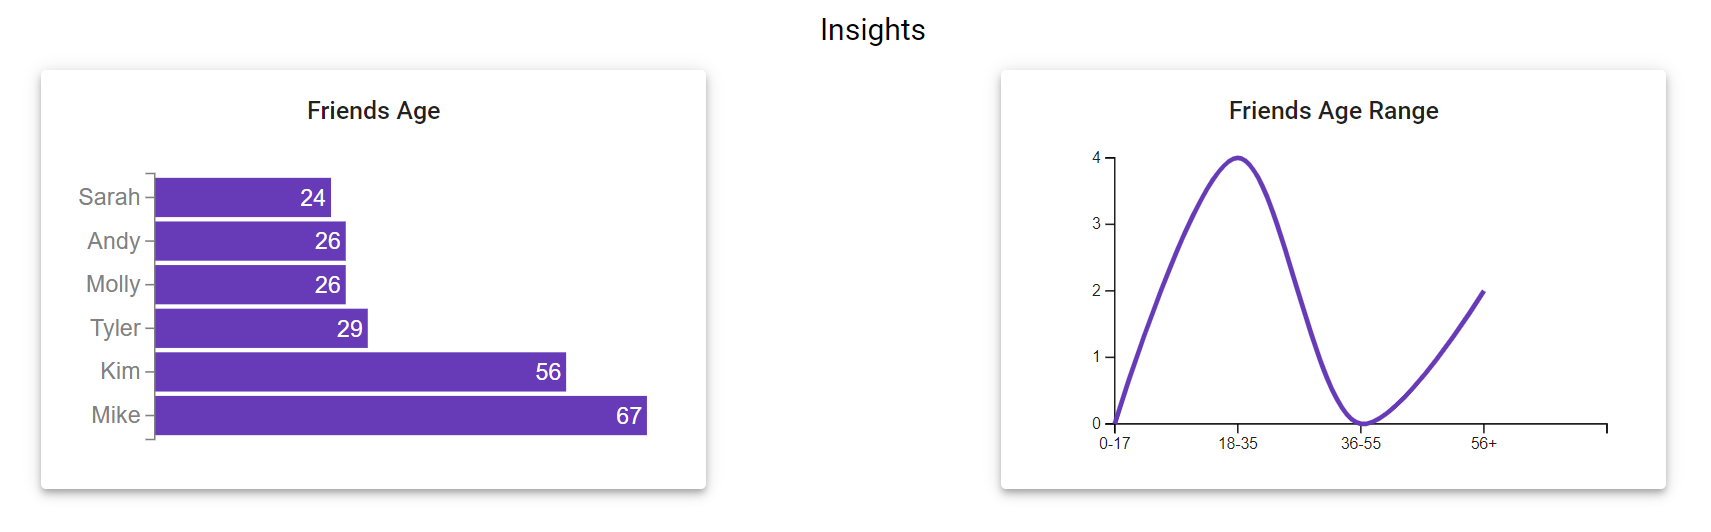
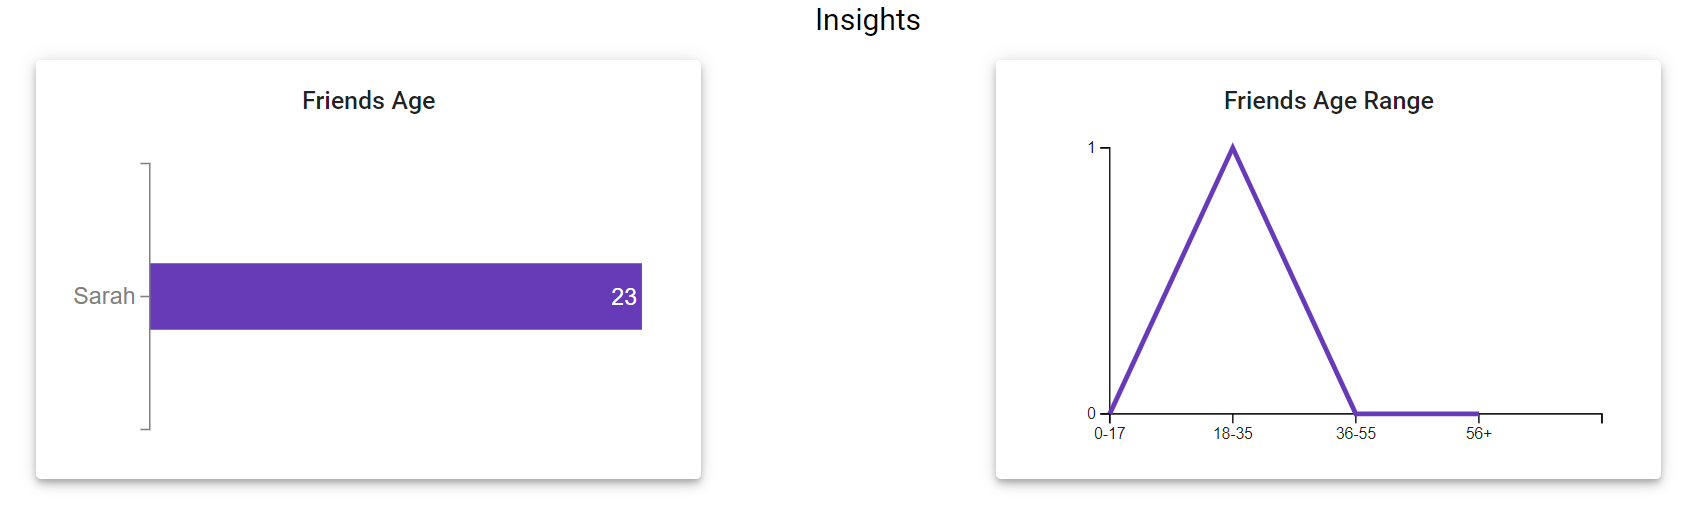
remove curve, update image

diff --git a/libs/features/dashboard/age-range-graph/src/lib/age-range-graph.component.ts b/libs/features/dashboard/age-range-graph/src/lib/age-range-graph.component.ts
@@ -113,8 +113,7 @@ export class AgeRangeGraphComponent implements OnChanges, AfterViewInit {
 
     const line: any = d3.line()
       .x(function(d, i) { return x(i); })
-      .y(function(d: any) { return y(d.count)})
-      .curve(d3.curveCatmullRom);
+      .y(function(d: any) { return y(d.count)});
 
     svg.append('path')
       .datum(this.ranges)
